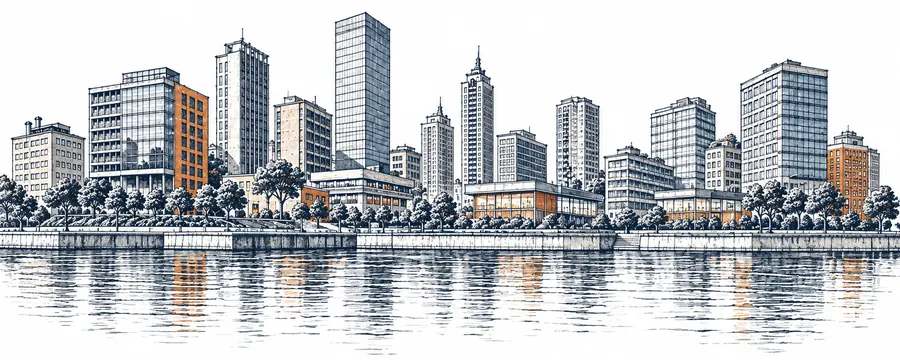
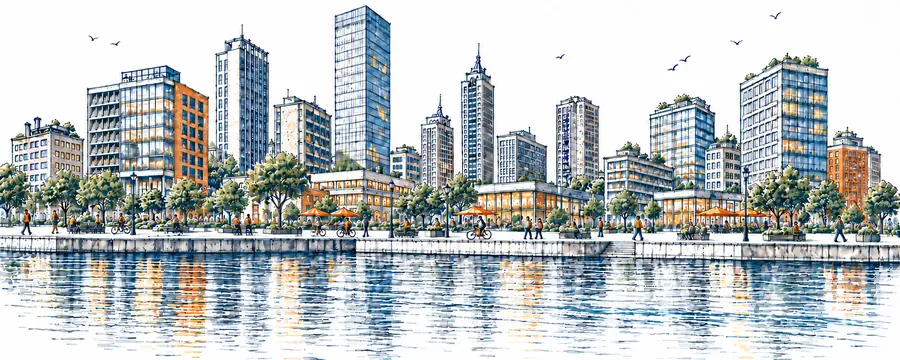
Ilustración con malecón y gente; tarjeta de valor sobre el río
Claude-Session: https://claude.ai/code/session_01251LcLgBkxQ9S3AP9H2GVX

diff --git a/index.html b/index.html
@@ -564,7 +564,7 @@ summary{font-family:var(--body);font-weight:600;font-size:19px;letter-spacing:-.
 /* the drawing */
 .city{height:auto;max-width:1680px}
 .city-img{display:block;width:100%;height:auto;mix-blend-mode:multiply;user-select:none}
-@media (min-width:761px){.city .fc-val{left:auto;right:max(24px,calc(50% - 596px));top:auto;bottom:6%;width:340px}}
+@media (min-width:761px){.city .fc-val{left:auto;right:max(24px,calc(50% - 596px));top:auto;bottom:-5%;width:330px}.sectors-line{margin-top:56px}}
 @media (max-width:760px){.city-img{height:260px;object-fit:cover;object-position:46% 70%}.city .fc-val{margin-top:-34px!important}}
 :root[data-theme="dark"] .city-img{filter:invert(1) hue-rotate(180deg) brightness(.95);mix-blend-mode:screen}
 @media (prefers-color-scheme:dark){:root:not([data-theme="light"]) .city-img{filter:invert(1) hue-rotate(180deg) brightness(.95);mix-blend-mode:screen}}
